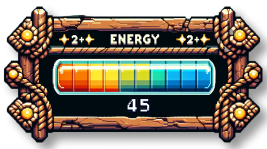
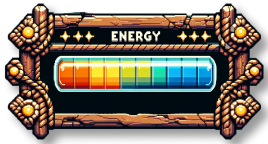
update dynamic energy ux

diff --git a/components/game/GameWindow.tsx b/components/game/GameWindow.tsx
@@ -16,6 +16,9 @@ import CraftMenu from "@/components/menus/CraftMenu";
 import GameCanvas from "@/components/game/GameCanvas";
 
 import { getPlayerId, getPlayerRosters, getPlayerSkillProcesses, suiPlayerInfo } from "@/actions/player.action";
+import { suixEnergyCoins } from "@/actions/coin.action";
+
+import { formatSui } from "@/utils/tools";
 
 export default function GameWindow({
   islandsInfo,
@@ -27,6 +30,8 @@ export default function GameWindow({
   }[];
 }) {
   const [currentPlayer, setCurrentPlayer] = useState<any>();
+  const [energyObjectId, setEnergyObjectId] = useState<string>("");
+  const [energyBalance, setEnergyBalance] = useState<number>(0);
 
   const [islandOwnerName, setIslandOwnerName] = useState<string>("");
   const [islandOwnerExp, setIslandOwnerExp] = useState<number>(0);
@@ -58,19 +63,25 @@ export default function GameWindow({
   const currentAccount = useCurrentAccount();
 
   useEffect(() => {
-    async function getCurrentPlayer() {
+    async function initCurrentPlayer() {
       if (!currentAccount) return;
 
       const playerId = await getPlayerId({ owner: currentAccount.address });
       const player = await suiPlayerInfo({ playerId });
       setCurrentPlayer(player);
 
+      const energyCoins = await suixEnergyCoins({ owner: currentAccount.address });
+      if (energyCoins.length === 0) return;
+
+      setEnergyBalance(formatSui(energyCoins[0].balance));
+      setEnergyObjectId(energyCoins[0].coinObjectId);
+
       // Get player's skill processes for action queue
       const processes = await getPlayerSkillProcesses({ playerId: player.id.id });
       setSkillProcesses(processes);
     }
 
-    getCurrentPlayer();
+    initCurrentPlayer();
   }, [currentAccount]);
 
   useEffect(() => {
@@ -180,7 +191,11 @@ export default function GameWindow({
 
   return (
     <>
-      <NavItems getIslandClicked={handleIslandCardClicked} getShipsClicked={handleShipsClicked} />
+      <NavItems
+        energyBalance={energyBalance}
+        getIslandClicked={handleIslandCardClicked}
+        getShipsClicked={handleShipsClicked}
+      />
 
       {/* Single topbar for checking other island */}
       {(islandMenuFlag || islandTopbarFlag) && (

diff --git a/components/shared/NavItems.tsx b/components/shared/NavItems.tsx
@@ -6,9 +6,11 @@ import EnergyFaucetForm from "@/components/form/EnergyFaucetForm";
 import ConnectWalletBtn from "@/components/wallet/ConnectWalletBtn";
 
 export default function NavItems({
+  energyBalance,
   getIslandClicked,
   getShipsClicked,
 }: {
+  energyBalance: number;
   getIslandClicked: () => void;
   getShipsClicked: () => void;
 }) {
@@ -50,15 +52,17 @@ export default function NavItems({
       </div>
 
       {/* Energy bar */}
-      <Image
-        className="fixed top-4 right-4 cursor-pointer"
-        src="/image/home/Energy_Bar.png"
-        alt="energy-bar"
-        width={240}
-        height={120}
-        priority
-        onClick={handleEnergyBar}
-      />
+      <div className="fixed top-4 right-4 cursor-pointer">
+        <Image
+          src="/image/home/Energy_Bar.png"
+          alt="energy-bar"
+          width={240}
+          height={120}
+          priority
+          onClick={handleEnergyBar}
+        />
+        <p className="absolute left-[95px] w-[52px] bottom-[23px] text-white text-center text-lg">{energyBalance}</p>
+      </div>
 
       {/* Faucet */}
       <EnergyFaucetForm />

diff --git a/utils/tools.ts b/utils/tools.ts
@@ -1,0 +1,11 @@
+export function formatSui(amount: string): number {
+  // Check if the input is a valid number string
+  if (!/^\d+$/.test(amount)) {
+    throw new Error("Invalid input: must be a number or numeric string");
+  }
+
+  // Convert to a number after dividing by 10^9
+  const formattedAmount = parseFloat(amount) / Math.pow(10, 9);
+
+  return Number(formattedAmount.toFixed(2));
+}
